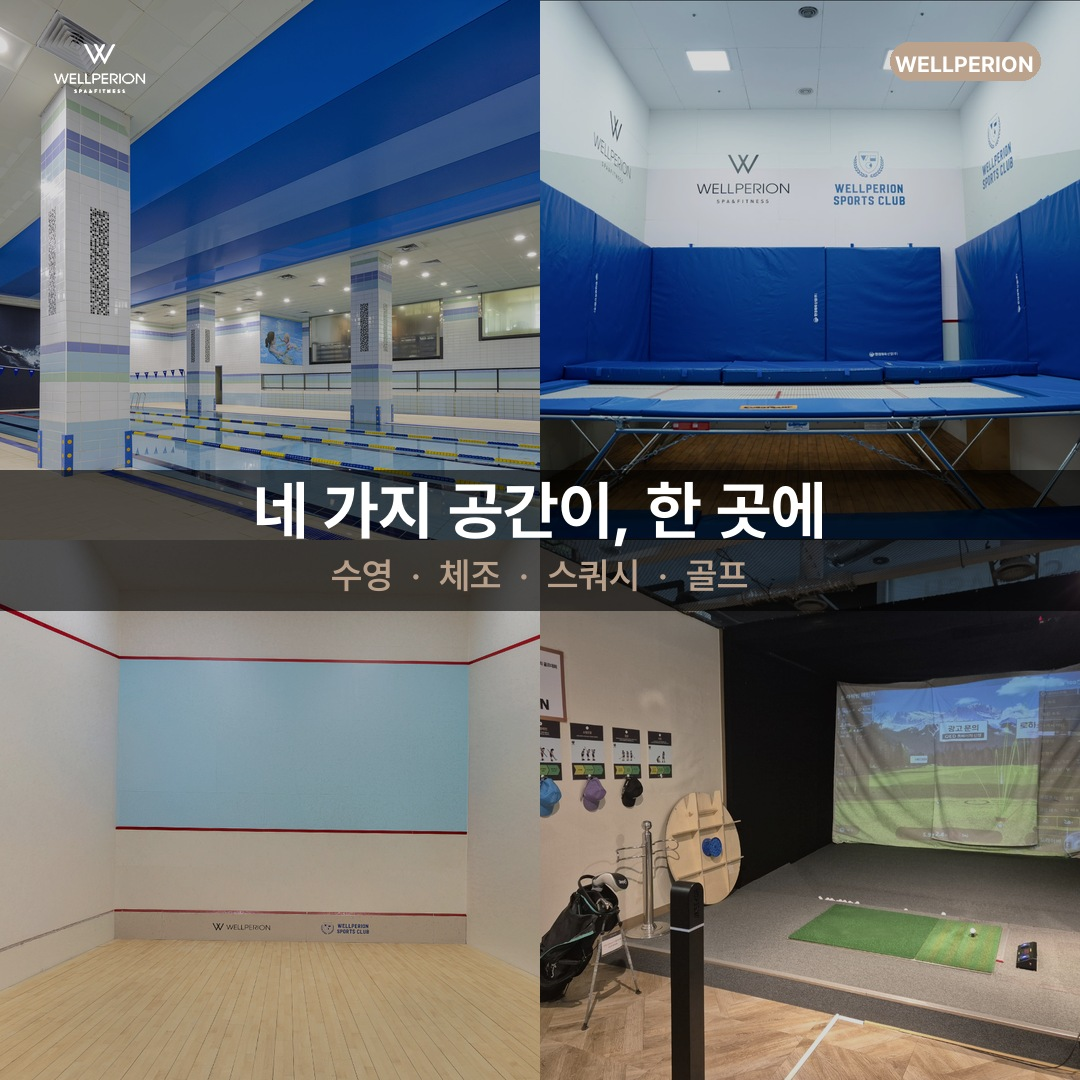
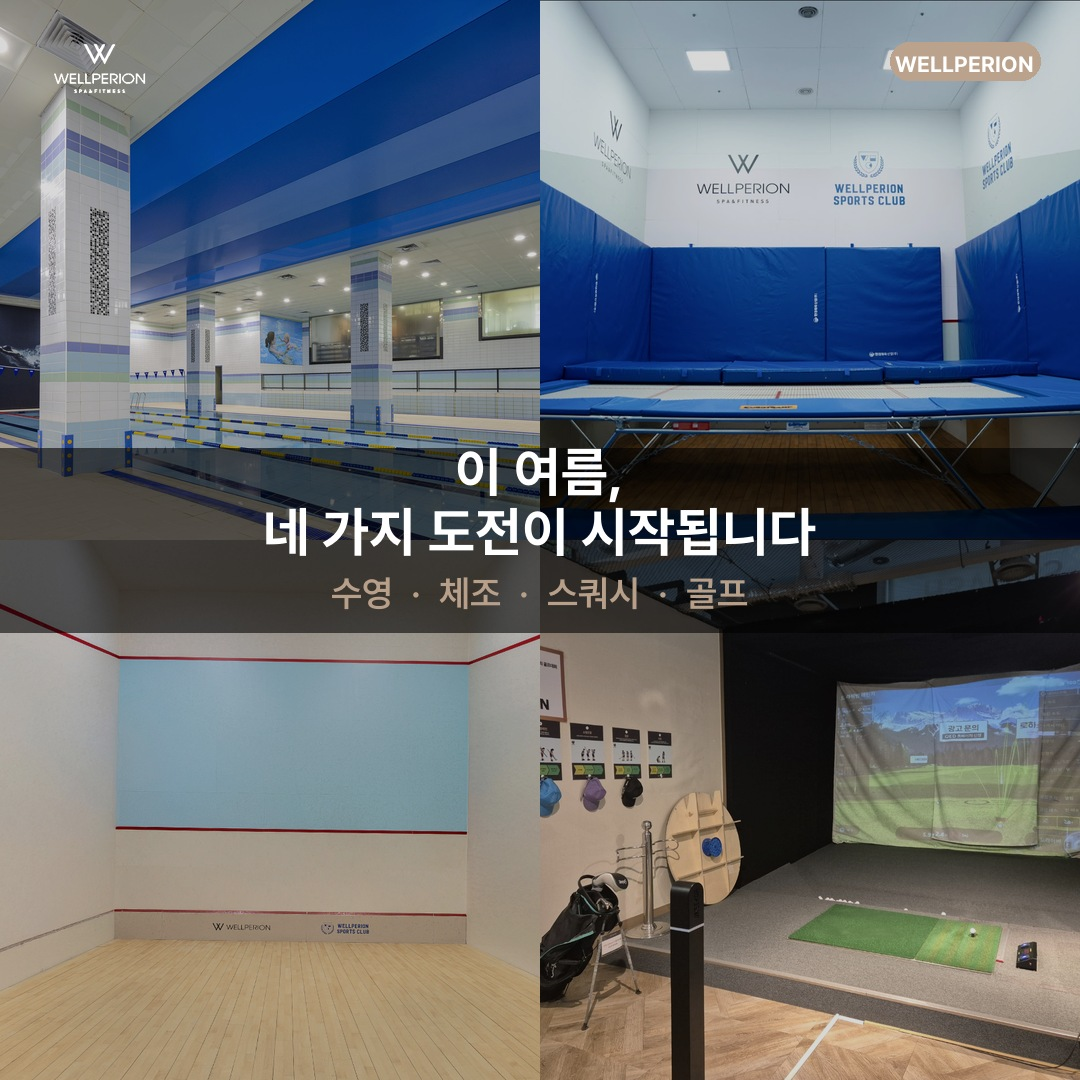
[시모] post_7 마무리 문구 교체 — '이 여름, 네 가지 도전이 시작됩니다' (검수대기)

Changed region(s): [[0.0, 0.3972, 1.0, 0.6111]]

diff --git a/instagram/260629_여름방학특강_ep1/build_slides.py b/instagram/260629_여름방학특강_ep1/build_slides.py
@@ -181,25 +181,27 @@ def compose_closing_card(output_path: Path) -> None:
         tile = ImageEnhance.Brightness(tile).enhance(0.85)
         canvas.paste(tile, (x, y))
 
-    # 정중앙 반투명 띠 — 4장 모두 식별 가능
+    # 정중앙 반투명 띠 — 두 줄 텍스트 수용, 4장 모두 식별 가능
     band_overlay = Image.new("RGBA", (W, H), (0, 0, 0, 0))
     band_draw = ImageDraw.Draw(band_overlay)
-    band_draw.rectangle([(0, 470), (W, 610)], fill=(0, 0, 0, 150))
+    band_draw.rectangle([(0, 448), (W, 632)], fill=(0, 0, 0, 150))
     canvas = Image.alpha_composite(canvas.convert("RGBA"), band_overlay).convert("RGB")
 
     canvas = paste_logo(canvas, logo_w=115)
     draw = ImageDraw.Draw(canvas)
     _draw_chip_mini(draw)
 
-    draw.text(
-        (W // 2, 510),
-        "네 가지 공간이, 한 곳에",
-        font=load_font("bold", 64),
+    draw.multiline_text(
+        (W // 2, 502),
+        "이 여름,\n네 가지 도전이 시작됩니다",
+        font=load_font("bold", 54),
         fill=WHITE,
         anchor="mm",
+        align="center",
+        spacing=8,
     )
     draw.text(
-        (W // 2, 575),
+        (W // 2, 593),
         "수영  ·  체조  ·  스쿼시  ·  골프",
         font=load_font("semibold", 36),
         fill=BEIGE,
